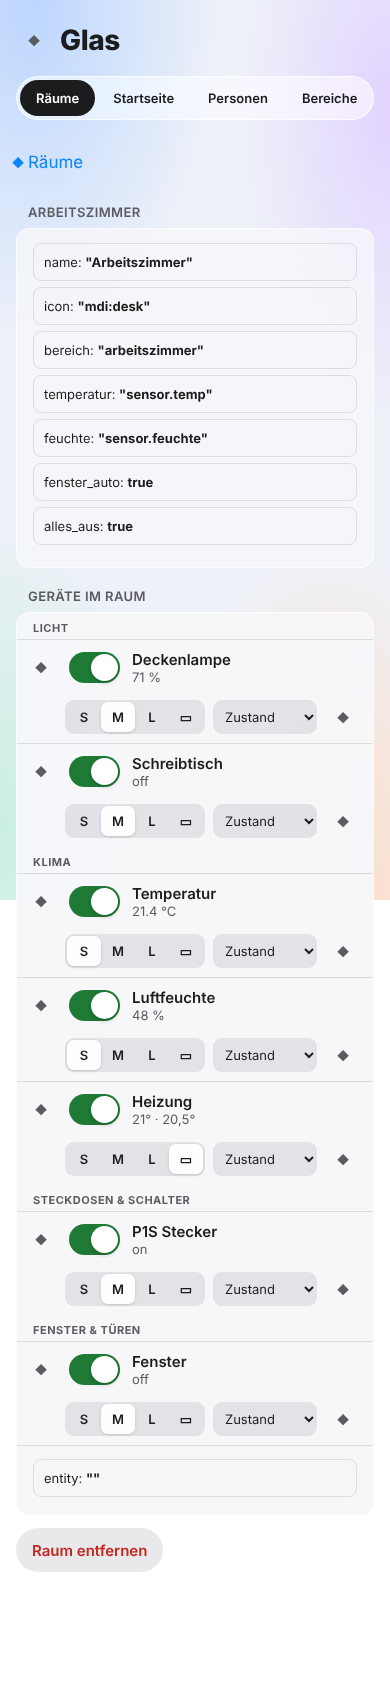
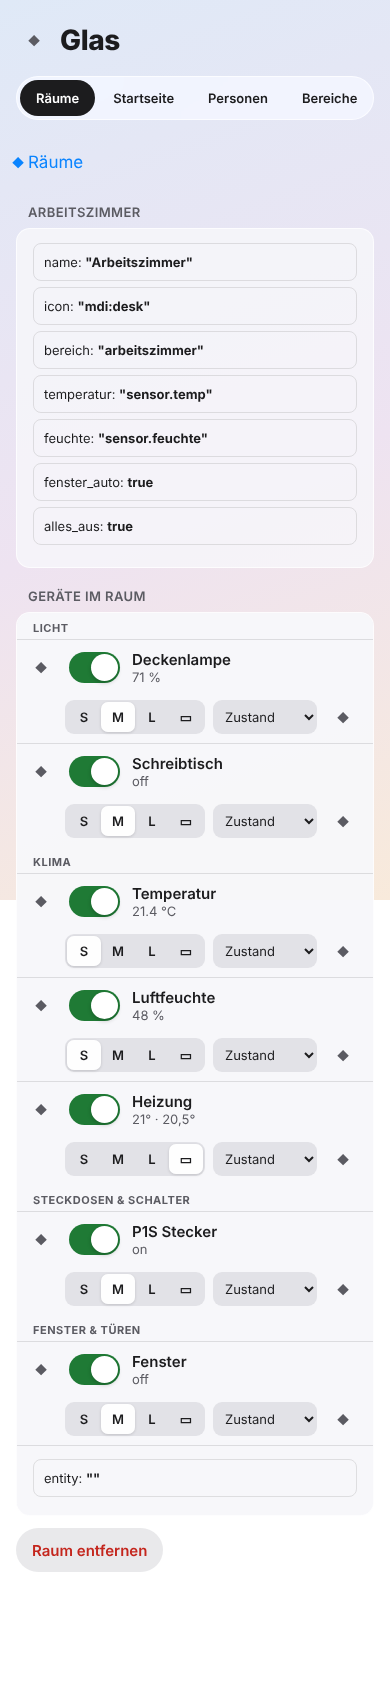
Optik wie bisher: Glas-Verlauf als Standard, enges Raster, gläserne Kopfleiste
- Hintergrund „Glas (wie bisher)“ = Verlauf des alten Themas, ist Standard
- Abstände wie im HA-Raster (8 px), halbe Breite auch am Handy (Drucker/Robi)
- Standard-Abschnitte wie im Beispiel-Dashboard
- Kopfleiste und normale HA-Karten bekommen die Werte des alten Glas-Themas

Claude-Session: https://claude.ai/code/session_01XeFyZdPCCQgpQJpUJ7JunX

Changed region(s): [[0.0, 0.0, 0.2154, 0.0615], [0.0, 0.3995, 0.0615, 0.5532]]

diff --git a/custom_components/glas_dashboard/frontend/glas-dashboard.js b/custom_components/glas_dashboard/frontend/glas-dashboard.js
@@ -349,10 +349,10 @@ const AKTIONEN_LABELS = {
 // Personen · Räume mit Geräten · Startseite pro Person · Bereiche · Aussehen
 // ---------------------------------------------------------------------------
 const ABSCHNITTE = [
-  ["wetter", "Wetter", "mdi:weather-partly-cloudy", "halb"], ["planer", "Planer heute", "mdi:calendar-check", "halb"],
-  ["favoriten", "Favoriten", "mdi:star-outline", "ganz"], ["sicherheit", "Sicherheit", "mdi:shield-home-outline", "halb"],
+  ["wetter", "Wetter", "mdi:weather-partly-cloudy", "ganz"], ["planer", "Planer heute", "mdi:calendar-check", "ganz"],
+  ["favoriten", "Favoriten", "mdi:star-outline", "ganz"], ["sicherheit", "Sicherheit", "mdi:shield-home-outline", "ganz"],
   ["drucker", "Drucker & Werkstatt", "mdi:printer-3d-nozzle", "halb"], ["robi", "Robi", "mdi:robot-vacuum", "halb"],
-  ["gaeste", "Gäste", "mdi:qrcode", "halb"],
+  ["gaeste", "Gäste", "mdi:qrcode", "ganz"],
 ];
 const GRUPPEN = [
   ["licht", "Licht"], ["klima", "Klima"], ["rollos", "Rollos"], ["schalter", "Steckdosen & Schalter"],
@@ -386,7 +386,7 @@ function raumGeraeteVorschlag(hass, bereich) {
 }
 function einstStandard() {
   return { version: 1, personen: [], gruss_modus: "name", raeume: [], startseiten: { alle: startseiteStandard() }, bereiche: {},
-    aussehen: { modus: "auto", hintergrund: "aurora" } };
+    aussehen: { modus: "auto", hintergrund: "klassisch" } };
 }
 function startseiteStandard() {
   return { abschnitte: ABSCHNITTE.map(([id, , , breite]) => ({ id, an: true, breite })), favoriten: [], chips: [] };
@@ -436,6 +436,7 @@ function istDunkel(h) {
 // Hintergründe: weiche Farbflächen hinter dem Glas (ruhig, ohne Bewegung)
 // ---------------------------------------------------------------------------
 const HINTERGRUENDE = {
+  klassisch: { name: "Glas (wie bisher)", verlauf: true, hell: ["#dfe9f7", "#eee3f1", "#f8eadb"], dunkel: ["#1b2742", "#0d111c", "#271c33"] },
   aurora: { name: "Aurora", hell: ["#eef1f8", "#bcd6ff", "#e2d3ff", "#ffdcc4", "#c9efe2"], dunkel: ["#0b0d14", "#1b3566", "#36225a", "#4a2a1c", "#0f3b37"] },
   morgen: { name: "Morgenrot", hell: ["#fbf1ec", "#ffd3c2", "#ffe6b3", "#f6c9de", "#e4dcff"], dunkel: ["#120c0e", "#4a1f1b", "#4a3510", "#45193a", "#26204a"] },
   see: { name: "See", hell: ["#ecf4f6", "#b9e3ef", "#cfe7ff", "#d5f2e6", "#e6e0fa"], dunkel: ["#081114", "#0f3a48", "#132f57", "#0f3d2f", "#262150"] },
@@ -443,11 +444,12 @@ const HINTERGRUENDE = {
   ruhig: { name: "Ruhig", hell: ["#f1f1f4", "#e3e5ec", "#ecebf0", "#e8e6e3", "#e5e9ea"], dunkel: ["#111114", "#1f2129", "#23222a", "#24221f", "#1e2326"] },
 };
 // „Nach Tageszeit“: morgens warm, tagsüber Aurora, abends See, nachts ruhig
-const tageszeitHg = () => { const s = new Date().getHours(); return s < 6 ? "ruhig" : s < 10 ? "morgen" : s < 17 ? "aurora" : s < 21 ? "see" : "ruhig"; };
+const tageszeitHg = () => { const s = new Date().getHours(); return s < 6 ? "ruhig" : s < 10 ? "morgen" : s < 17 ? "klassisch" : s < 21 ? "see" : "ruhig"; };
 function hintergrundCss(id, dunkel) {
   const wahl = id === "tageszeit" ? tageszeitHg() : id;
   const h = HINTERGRUENDE[wahl];
   if (!h) return "var(--primary-background-color)";
+  if (h.verlauf) { const [a, b, c] = h[dunkel ? "dunkel" : "hell"]; return `linear-gradient(160deg, ${a} 0%, ${b} 55%, ${c} 100%)`; }
   const [b, c1, c2, c3, c4] = h[dunkel ? "dunkel" : "hell"];
   const a = dunkel ? "cc" : "ff";
   return `radial-gradient(70% 55% at 8% 0%, ${c1}${a} 0%, transparent 70%),radial-gradient(55% 50% at 100% 12%, ${c2}${a} 0%, transparent 70%),`
@@ -4608,12 +4610,12 @@ class GlasGaesteEditor extends GlasEditor {
 const ZUHAUSE_CSS = `
 :host{display:block;position:relative;min-height:100vh;min-height:100dvh}
 .hg{position:fixed;inset:0;z-index:0;pointer-events:none}
-.seite{position:relative;z-index:1;container-type:inline-size;max-width:1320px;margin:0 auto;
-  padding:calc(var(--g-a5) + env(safe-area-inset-top)) var(--g-a4) calc(120px + env(safe-area-inset-bottom))}
-.raster{display:grid;grid-template-columns:repeat(12,minmax(0,1fr));gap:var(--g-a3);margin-top:var(--g-a5);align-items:start}
+.seite{position:relative;z-index:1;max-width:1320px;margin:0 auto;
+  padding:var(--g-a4) var(--g-a4) calc(120px + env(safe-area-inset-bottom))}
+.raster{display:grid;grid-template-columns:repeat(12,minmax(0,1fr));gap:var(--g-a2);margin-top:var(--g-a3);align-items:start}
 .raster > *{grid-column:span 12;min-width:0}
-@container (min-width:720px){.raster > .halb{grid-column:span 6}}
-.abschnitt-titel{grid-column:span 12;margin:var(--g-a3) var(--g-a1) calc(-1 * var(--g-a1))}
+.raster > .halb{grid-column:span 6}
+.abschnitt-titel{grid-column:span 12;margin:var(--g-a4) var(--g-a1) var(--g-a1)}
 .fav{display:grid;grid-template-columns:repeat(12,minmax(0,1fr));gap:var(--g-a2)}
 .fav > *{min-width:0}
 .leer{max-width:520px;margin:12vh auto 0;padding:var(--g-a5);border-radius:var(--g-r);text-align:center;color:var(--g-text)}
@@ -4636,10 +4638,22 @@ class GlasZuhauseCard extends HTMLElement {
   getGridOptions() { return { columns: 12, rows: "auto" }; }
   connectedCallback() {
     Glas.hoerer.add(this._hoerer);
+    this.themaSetzen(true);
     this._takt = setInterval(() => this.hintergrund(), 10 * 60e3);
     this.aufbauen();
   }
-  disconnectedCallback() { Glas.hoerer.delete(this._hoerer); clearInterval(this._takt); }
+  disconnectedCallback() { Glas.hoerer.delete(this._hoerer); clearInterval(this._takt); this.themaSetzen(false); }
+  // Wie das bisherige Glas-Thema: gläserne Kopfleiste, normale HA-Karten rund und durchscheinend
+  themaSetzen(an) {
+    const d = istDunkel(this._hass), r = document.documentElement.style;
+    const werte = { "--app-header-background-color": d ? "rgba(22,22,28,.7)" : "rgba(246,246,250,.7)", "--app-header-text-color": d ? "#f2f2f7" : "#1c1c1e",
+      "--ha-card-border-radius": "22px", "--ha-card-background": d ? "rgba(44,44,52,.55)" : "rgba(255,255,255,.55)",
+      "--ha-card-border-color": d ? "rgba(255,255,255,.08)" : "rgba(255,255,255,.7)", "--ha-card-box-shadow": "none" };
+    if (!an) { if (this._thema) { Object.keys(werte).forEach((k) => r.removeProperty(k)); this._thema = false; } return; }
+    if (Glas.einst?.aussehen?.hintergrund === "aus") return this.themaSetzen(false);
+    Object.entries(werte).forEach(([k, v]) => r.setProperty(k, v));
+    this._thema = true;
+  }
   set hass(h) {
     const erst = !this._hass;
     this._hass = h;
@@ -4665,8 +4679,8 @@ class GlasZuhauseCard extends HTMLElement {
     if (!hg || !this._hass) return;
     const d = istDunkel(this._hass);
     this.toggleAttribute("dunkel", d);
-    const css = hintergrundCss(Glas.einst?.aussehen?.hintergrund || "aurora", d);
-    if (hg._css !== css) { hg._css = css; hg.style.background = css; }
+    const css = hintergrundCss(Glas.einst?.aussehen?.hintergrund || "klassisch", d);
+    if (hg._css !== css) { hg._css = css; hg.style.background = css; this.themaSetzen(true); }
   }
   aufbauen() {
     if (!this._hass || !this.isConnected) return;
@@ -4944,7 +4958,7 @@ class GlasEinstellungen extends HTMLElement {
     const d = istDunkel(this._hass);
     this.toggleAttribute("dunkel", d);
     const hg = this.$(".hg");
-    if (hg) hg.style.background = hintergrundCss(this._d?.aussehen?.hintergrund || Glas.einst?.aussehen?.hintergrund || "aurora", d);
+    if (hg) hg.style.background = hintergrundCss(this._d?.aussehen?.hintergrund || Glas.einst?.aussehen?.hintergrund || "klassisch", d);
   }
   speichern() {
     clearTimeout(this._speicherT);
@@ -5178,7 +5192,7 @@ class GlasEinstellungen extends HTMLElement {
 
   // ---------------- Aussehen ----------------
   aussehen(box) {
-    const A = (this._d.aussehen = { modus: "auto", hintergrund: "aurora", ...(this._d.aussehen || {}) });
+    const A = (this._d.aussehen = { modus: "auto", hintergrund: "klassisch", ...(this._d.aussehen || {}) });
     this.html(box, `<h2>Hell oder dunkel</h2>`);
     const m = this.html(box, `<div class="gruppe"><div class="zeile"><span class="name"><b>Darstellung</b><span>Automatisch folgt dem Handy bzw. HA</span></span>
       <span class="segment" role="group" aria-label="Darstellung">${[["auto", "Auto"], ["hell", "Hell"], ["dunkel", "Dunkel"]].map(([id, t]) => `<button data-m="${id}" aria-pressed="${A.modus === id}">${t}</button>`).join("")}</span></div></div>`);
@@ -5188,7 +5202,7 @@ class GlasEinstellungen extends HTMLElement {
     const hg = this.html(box, `<div class="gruppe"><div class="hgs">${[...Object.entries(HINTERGRUENDE).map(([id, x]) => [id, x.name]), ["tageszeit", "Nach Tageszeit"], ["aus", "Wie Home Assistant"]]
       .map(([id, n]) => `<button class="hg-wahl" data-hg="${id}" aria-pressed="${A.hintergrund === id}"><span class="muster" style="background:${hintergrundCss(id, d)}"><span></span></span>${esc(n)}</button>`).join("")}</div></div>`);
     hg.querySelectorAll("[data-hg]").forEach((b) => b.addEventListener("click", () => { A.hintergrund = b.dataset.hg; this.speichern(); this.hintergrund(); this.zeichnen(); }));
-    this.html(box, `<div class="fuss">„Nach Tageszeit“: morgens warm, tagsüber Aurora, abends See, nachts ruhig.</div>`);
+    this.html(box, `<div class="fuss">„Nach Tageszeit“: morgens warm, tagsüber wie bisher, abends See, nachts ruhig.</div>`);
     this.dashboardBlock(box);
   }
   async dashboardBlock(box) {

diff --git a/src/01-zentral.js b/src/01-zentral.js
@@ -3,10 +3,10 @@
 // Personen · Räume mit Geräten · Startseite pro Person · Bereiche · Aussehen
 // ---------------------------------------------------------------------------
 const ABSCHNITTE = [
-  ["wetter", "Wetter", "mdi:weather-partly-cloudy", "halb"], ["planer", "Planer heute", "mdi:calendar-check", "halb"],
-  ["favoriten", "Favoriten", "mdi:star-outline", "ganz"], ["sicherheit", "Sicherheit", "mdi:shield-home-outline", "halb"],
+  ["wetter", "Wetter", "mdi:weather-partly-cloudy", "ganz"], ["planer", "Planer heute", "mdi:calendar-check", "ganz"],
+  ["favoriten", "Favoriten", "mdi:star-outline", "ganz"], ["sicherheit", "Sicherheit", "mdi:shield-home-outline", "ganz"],
   ["drucker", "Drucker & Werkstatt", "mdi:printer-3d-nozzle", "halb"], ["robi", "Robi", "mdi:robot-vacuum", "halb"],
-  ["gaeste", "Gäste", "mdi:qrcode", "halb"],
+  ["gaeste", "Gäste", "mdi:qrcode", "ganz"],
 ];
 const GRUPPEN = [
   ["licht", "Licht"], ["klima", "Klima"], ["rollos", "Rollos"], ["schalter", "Steckdosen & Schalter"],
@@ -40,7 +40,7 @@ function raumGeraeteVorschlag(hass, bereich) {
 }
 function einstStandard() {
   return { version: 1, personen: [], gruss_modus: "name", raeume: [], startseiten: { alle: startseiteStandard() }, bereiche: {},
-    aussehen: { modus: "auto", hintergrund: "aurora" } };
+    aussehen: { modus: "auto", hintergrund: "klassisch" } };
 }
 function startseiteStandard() {
   return { abschnitte: ABSCHNITTE.map(([id, , , breite]) => ({ id, an: true, breite })), favoriten: [], chips: [] };
@@ -90,6 +90,7 @@ function istDunkel(h) {
 // Hintergründe: weiche Farbflächen hinter dem Glas (ruhig, ohne Bewegung)
 // ---------------------------------------------------------------------------
 const HINTERGRUENDE = {
+  klassisch: { name: "Glas (wie bisher)", verlauf: true, hell: ["#dfe9f7", "#eee3f1", "#f8eadb"], dunkel: ["#1b2742", "#0d111c", "#271c33"] },
   aurora: { name: "Aurora", hell: ["#eef1f8", "#bcd6ff", "#e2d3ff", "#ffdcc4", "#c9efe2"], dunkel: ["#0b0d14", "#1b3566", "#36225a", "#4a2a1c", "#0f3b37"] },
   morgen: { name: "Morgenrot", hell: ["#fbf1ec", "#ffd3c2", "#ffe6b3", "#f6c9de", "#e4dcff"], dunkel: ["#120c0e", "#4a1f1b", "#4a3510", "#45193a", "#26204a"] },
   see: { name: "See", hell: ["#ecf4f6", "#b9e3ef", "#cfe7ff", "#d5f2e6", "#e6e0fa"], dunkel: ["#081114", "#0f3a48", "#132f57", "#0f3d2f", "#262150"] },
@@ -97,11 +98,12 @@ const HINTERGRUENDE = {
   ruhig: { name: "Ruhig", hell: ["#f1f1f4", "#e3e5ec", "#ecebf0", "#e8e6e3", "#e5e9ea"], dunkel: ["#111114", "#1f2129", "#23222a", "#24221f", "#1e2326"] },
 };
 // „Nach Tageszeit“: morgens warm, tagsüber Aurora, abends See, nachts ruhig
-const tageszeitHg = () => { const s = new Date().getHours(); return s < 6 ? "ruhig" : s < 10 ? "morgen" : s < 17 ? "aurora" : s < 21 ? "see" : "ruhig"; };
+const tageszeitHg = () => { const s = new Date().getHours(); return s < 6 ? "ruhig" : s < 10 ? "morgen" : s < 17 ? "klassisch" : s < 21 ? "see" : "ruhig"; };
 function hintergrundCss(id, dunkel) {
   const wahl = id === "tageszeit" ? tageszeitHg() : id;
   const h = HINTERGRUENDE[wahl];
   if (!h) return "var(--primary-background-color)";
+  if (h.verlauf) { const [a, b, c] = h[dunkel ? "dunkel" : "hell"]; return `linear-gradient(160deg, ${a} 0%, ${b} 55%, ${c} 100%)`; }
   const [b, c1, c2, c3, c4] = h[dunkel ? "dunkel" : "hell"];
   const a = dunkel ? "cc" : "ff";
   return `radial-gradient(70% 55% at 8% 0%, ${c1}${a} 0%, transparent 70%),radial-gradient(55% 50% at 100% 12%, ${c2}${a} 0%, transparent 70%),`

diff --git a/src/85-zuhause.js b/src/85-zuhause.js
@@ -5,12 +5,12 @@
 const ZUHAUSE_CSS = `
 :host{display:block;position:relative;min-height:100vh;min-height:100dvh}
 .hg{position:fixed;inset:0;z-index:0;pointer-events:none}
-.seite{position:relative;z-index:1;container-type:inline-size;max-width:1320px;margin:0 auto;
-  padding:calc(var(--g-a5) + env(safe-area-inset-top)) var(--g-a4) calc(120px + env(safe-area-inset-bottom))}
-.raster{display:grid;grid-template-columns:repeat(12,minmax(0,1fr));gap:var(--g-a3);margin-top:var(--g-a5);align-items:start}
+.seite{position:relative;z-index:1;max-width:1320px;margin:0 auto;
+  padding:var(--g-a4) var(--g-a4) calc(120px + env(safe-area-inset-bottom))}
+.raster{display:grid;grid-template-columns:repeat(12,minmax(0,1fr));gap:var(--g-a2);margin-top:var(--g-a3);align-items:start}
 .raster > *{grid-column:span 12;min-width:0}
-@container (min-width:720px){.raster > .halb{grid-column:span 6}}
-.abschnitt-titel{grid-column:span 12;margin:var(--g-a3) var(--g-a1) calc(-1 * var(--g-a1))}
+.raster > .halb{grid-column:span 6}
+.abschnitt-titel{grid-column:span 12;margin:var(--g-a4) var(--g-a1) var(--g-a1)}
 .fav{display:grid;grid-template-columns:repeat(12,minmax(0,1fr));gap:var(--g-a2)}
 .fav > *{min-width:0}
 .leer{max-width:520px;margin:12vh auto 0;padding:var(--g-a5);border-radius:var(--g-r);text-align:center;color:var(--g-text)}
@@ -33,10 +33,22 @@ class GlasZuhauseCard extends HTMLElement {
   getGridOptions() { return { columns: 12, rows: "auto" }; }
   connectedCallback() {
     Glas.hoerer.add(this._hoerer);
+    this.themaSetzen(true);
     this._takt = setInterval(() => this.hintergrund(), 10 * 60e3);
     this.aufbauen();
   }
-  disconnectedCallback() { Glas.hoerer.delete(this._hoerer); clearInterval(this._takt); }
+  disconnectedCallback() { Glas.hoerer.delete(this._hoerer); clearInterval(this._takt); this.themaSetzen(false); }
+  // Wie das bisherige Glas-Thema: gläserne Kopfleiste, normale HA-Karten rund und durchscheinend
+  themaSetzen(an) {
+    const d = istDunkel(this._hass), r = document.documentElement.style;
+    const werte = { "--app-header-background-color": d ? "rgba(22,22,28,.7)" : "rgba(246,246,250,.7)", "--app-header-text-color": d ? "#f2f2f7" : "#1c1c1e",
+      "--ha-card-border-radius": "22px", "--ha-card-background": d ? "rgba(44,44,52,.55)" : "rgba(255,255,255,.55)",
+      "--ha-card-border-color": d ? "rgba(255,255,255,.08)" : "rgba(255,255,255,.7)", "--ha-card-box-shadow": "none" };
+    if (!an) { if (this._thema) { Object.keys(werte).forEach((k) => r.removeProperty(k)); this._thema = false; } return; }
+    if (Glas.einst?.aussehen?.hintergrund === "aus") return this.themaSetzen(false);
+    Object.entries(werte).forEach(([k, v]) => r.setProperty(k, v));
+    this._thema = true;
+  }
   set hass(h) {
     const erst = !this._hass;
     this._hass = h;
@@ -62,8 +74,8 @@ class GlasZuhauseCard extends HTMLElement {
     if (!hg || !this._hass) return;
     const d = istDunkel(this._hass);
     this.toggleAttribute("dunkel", d);
-    const css = hintergrundCss(Glas.einst?.aussehen?.hintergrund || "aurora", d);
-    if (hg._css !== css) { hg._css = css; hg.style.background = css; }
+    const css = hintergrundCss(Glas.einst?.aussehen?.hintergrund || "klassisch", d);
+    if (hg._css !== css) { hg._css = css; hg.style.background = css; this.themaSetzen(true); }
   }
   aufbauen() {
     if (!this._hass || !this.isConnected) return;

diff --git a/src/90-einstellungen.js b/src/90-einstellungen.js
@@ -169,7 +169,7 @@ class GlasEinstellungen extends HTMLElement {
     const d = istDunkel(this._hass);
     this.toggleAttribute("dunkel", d);
     const hg = this.$(".hg");
-    if (hg) hg.style.background = hintergrundCss(this._d?.aussehen?.hintergrund || Glas.einst?.aussehen?.hintergrund || "aurora", d);
+    if (hg) hg.style.background = hintergrundCss(this._d?.aussehen?.hintergrund || Glas.einst?.aussehen?.hintergrund || "klassisch", d);
   }
   speichern() {
     clearTimeout(this._speicherT);
@@ -403,7 +403,7 @@ class GlasEinstellungen extends HTMLElement {
 
   // ---------------- Aussehen ----------------
   aussehen(box) {
-    const A = (this._d.aussehen = { modus: "auto", hintergrund: "aurora", ...(this._d.aussehen || {}) });
+    const A = (this._d.aussehen = { modus: "auto", hintergrund: "klassisch", ...(this._d.aussehen || {}) });
     this.html(box, `<h2>Hell oder dunkel</h2>`);
     const m = this.html(box, `<div class="gruppe"><div class="zeile"><span class="name"><b>Darstellung</b><span>Automatisch folgt dem Handy bzw. HA</span></span>
       <span class="segment" role="group" aria-label="Darstellung">${[["auto", "Auto"], ["hell", "Hell"], ["dunkel", "Dunkel"]].map(([id, t]) => `<button data-m="${id}" aria-pressed="${A.modus === id}">${t}</button>`).join("")}</span></div></div>`);
@@ -413,7 +413,7 @@ class GlasEinstellungen extends HTMLElement {
     const hg = this.html(box, `<div class="gruppe"><div class="hgs">${[...Object.entries(HINTERGRUENDE).map(([id, x]) => [id, x.name]), ["tageszeit", "Nach Tageszeit"], ["aus", "Wie Home Assistant"]]
       .map(([id, n]) => `<button class="hg-wahl" data-hg="${id}" aria-pressed="${A.hintergrund === id}"><span class="muster" style="background:${hintergrundCss(id, d)}"><span></span></span>${esc(n)}</button>`).join("")}</div></div>`);
     hg.querySelectorAll("[data-hg]").forEach((b) => b.addEventListener("click", () => { A.hintergrund = b.dataset.hg; this.speichern(); this.hintergrund(); this.zeichnen(); }));
-    this.html(box, `<div class="fuss">„Nach Tageszeit“: morgens warm, tagsüber Aurora, abends See, nachts ruhig.</div>`);
+    this.html(box, `<div class="fuss">„Nach Tageszeit“: morgens warm, tagsüber wie bisher, abends See, nachts ruhig.</div>`);
     this.dashboardBlock(box);
   }
   async dashboardBlock(box) {
